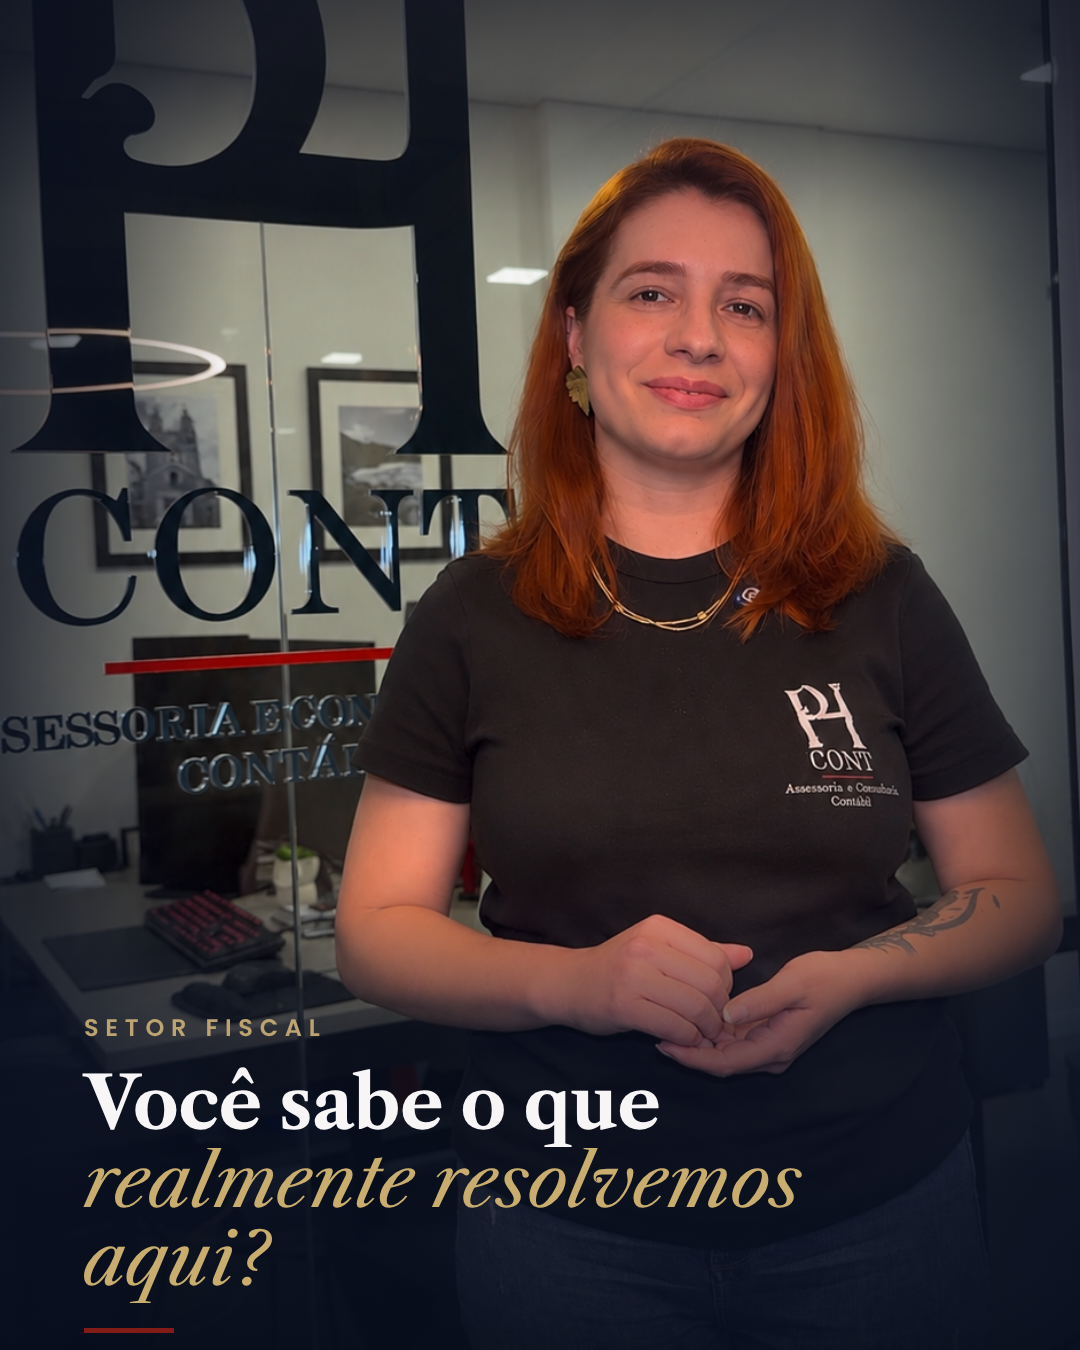
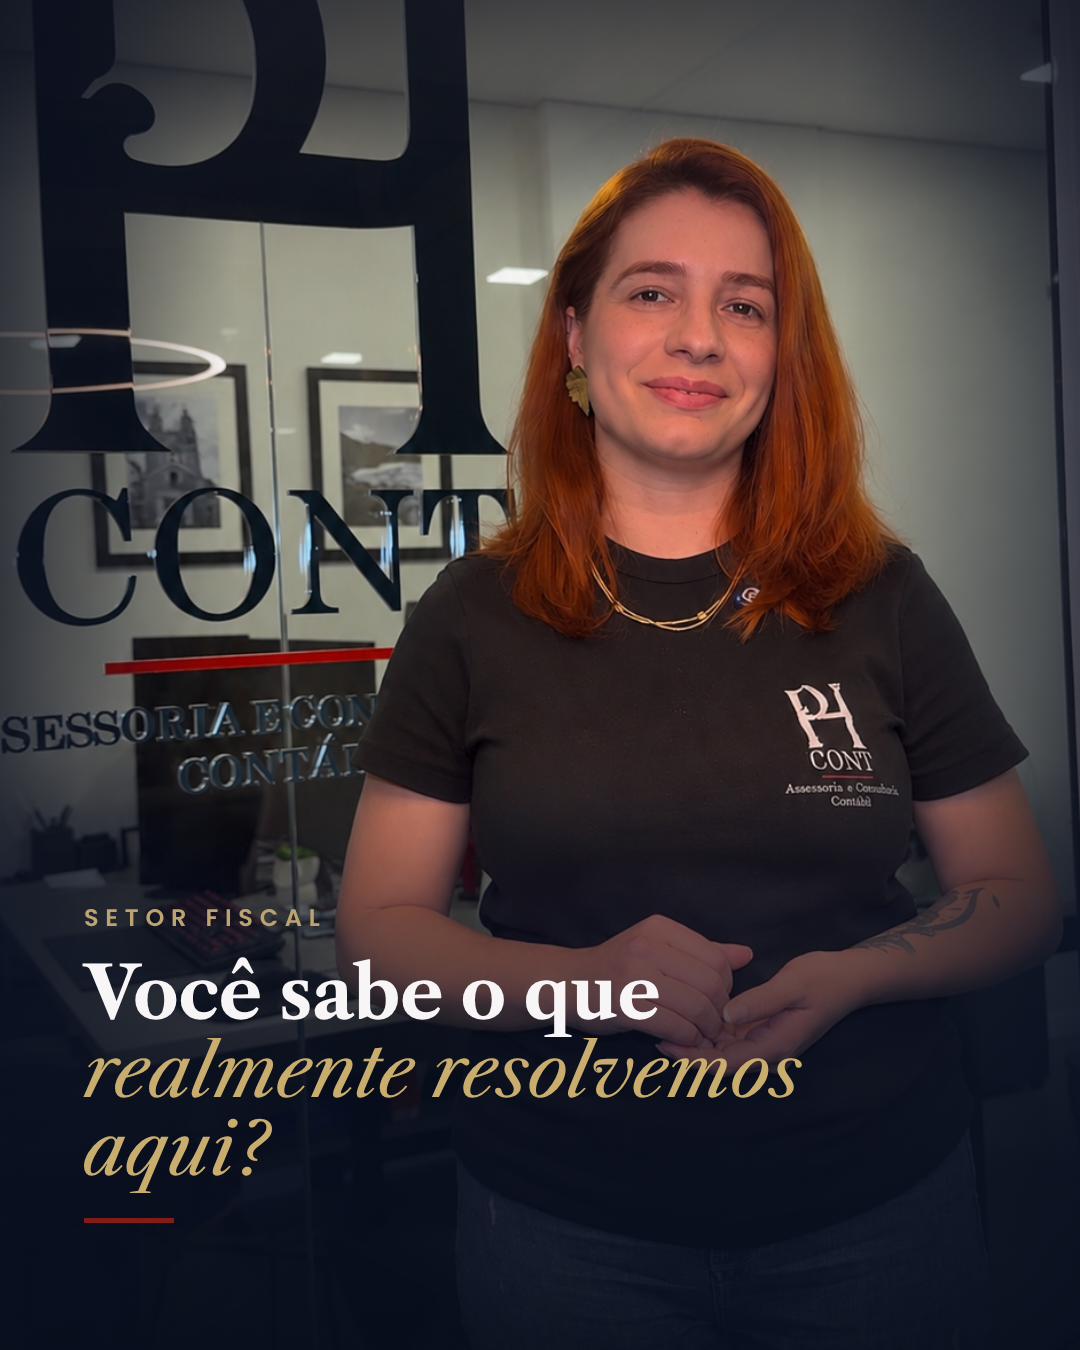
PHcont carrossel: título da capa mais para cima
Claude-Session: https://claude.ai/code/session_012bVqEb5M2bw1tnz2qQiCDo

Changed region(s): [[0.0611, 0.5911, 0.9778, 0.9956]]

diff --git a/phcont/carrossel/setor_fiscal/carrossel.html b/phcont/carrossel/setor_fiscal/carrossel.html
@@ -56,8 +56,8 @@ html,body{width:1080px;height:1350px;overflow:hidden;background:#0b1529}
   <div style="position:absolute;inset:0;background:url(foto1.png) center 60%/cover"></div>
   <div style="position:absolute;inset:0;background:radial-gradient(ellipse 75% 70% at 55% 42%,rgba(8,14,29,0) 55%,rgba(8,14,29,.55) 100%)"></div>
   <div style="position:absolute;inset:0;background:linear-gradient(90deg,rgba(8,14,29,.62) 0%,rgba(8,14,29,0) 22%,rgba(8,14,29,0) 78%,rgba(8,14,29,.62) 100%),linear-gradient(180deg,rgba(8,14,29,.45) 0%,rgba(8,14,29,0) 16%)"></div>
-  <div style="position:absolute;inset:0;background:linear-gradient(180deg,rgba(9,16,32,0) 0%,rgba(9,16,32,0) 64%,rgba(11,19,38,.55) 76%,rgba(9,16,32,.82) 90%,rgba(8,14,29,.9) 100%)"></div>
-  <div style="position:absolute;left:84px;right:84px;top:1010px">
+  <div style="position:absolute;inset:0;background:linear-gradient(180deg,rgba(9,16,32,0) 0%,rgba(9,16,32,0) 56%,rgba(11,19,38,.55) 68%,rgba(9,16,32,.82) 86%,rgba(8,14,29,.9) 100%)"></div>
+  <div style="position:absolute;left:84px;right:84px;top:900px">
     <div class="rot" style="font-size:24px">SETOR FISCAL</div>
     <div style="margin-top:20px;font-family:'Libre Caslon Text',serif;font-weight:700;font-size:72px;line-height:1.08;letter-spacing:-.01em">Você sabe o que <em style="font-style:italic;font-weight:400;color:var(--ouro)">realmente resolvemos aqui?</em></div>
     <div class="traco"></div>

diff --git a/.claude/skills/phcont/SKILL.md b/.claude/skills/phcont/SKILL.md
@@ -70,7 +70,7 @@ só o estilo.
 Modelo em `phcont/carrossel/setor_fiscal/` (`carrossel.html` com um slide por `?s=N`, `render.cjs` gera os PNGs em `final/`).
 1080x1350 (4:5). Usar **só o texto do roteiro**, sem frases extras, sem letra manuscrita e sem emojis.
 - **Capa:** foto dela **inteira na capa, sem desfoque nos lados**, enquadrada da cabeça até as mãos; **pouca sombra
-  embaixo** (só o necessário para o título) e **sombreado em volta** (laterais, topo e vinheta). Rótulo dourado
+  embaixo** (só o necessário para o título) e **sombreado em volta** (laterais, topo e vinheta). Título um pouco acima do rodapé (bloco a partir de y≈900, não colado embaixo). Rótulo dourado
   espaçado + título Libre Caslon branco com final em itálico dourado + traço bordô. Sem "arraste".
 - **Slides internos:** fundo marinho com granulado e moldura fina dourada; numeral em itálico (02, 03…) + fio dourado +
   rótulo; título serifado; listas com ícones de traço dourado em círculo (no lugar dos emojis); siglas como etiquetas;
